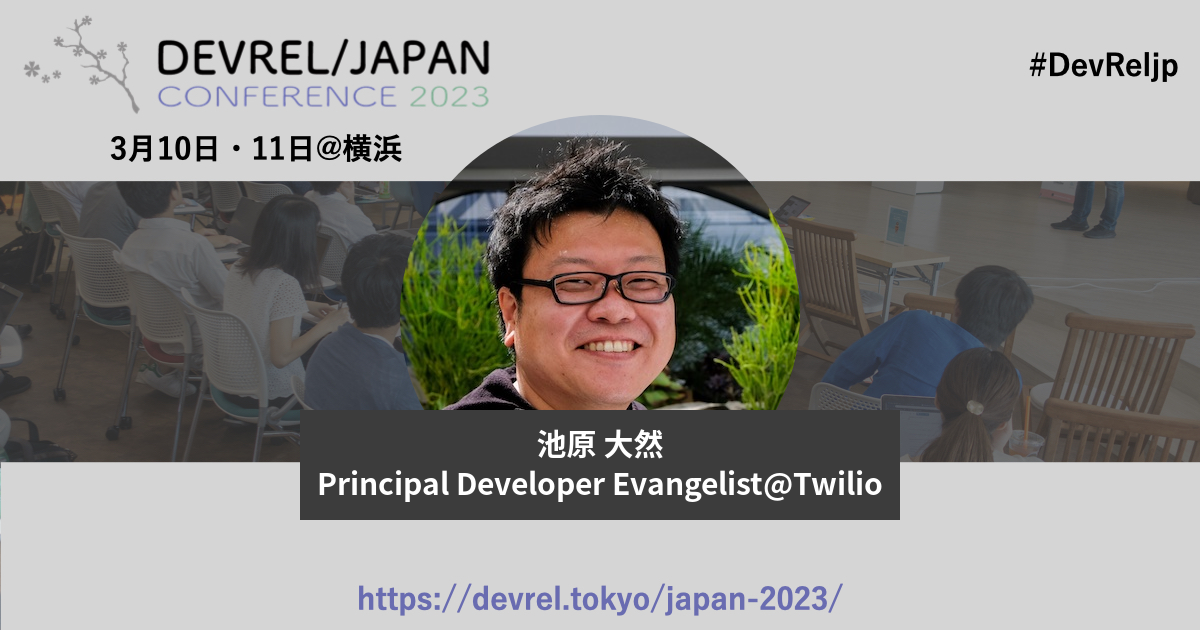
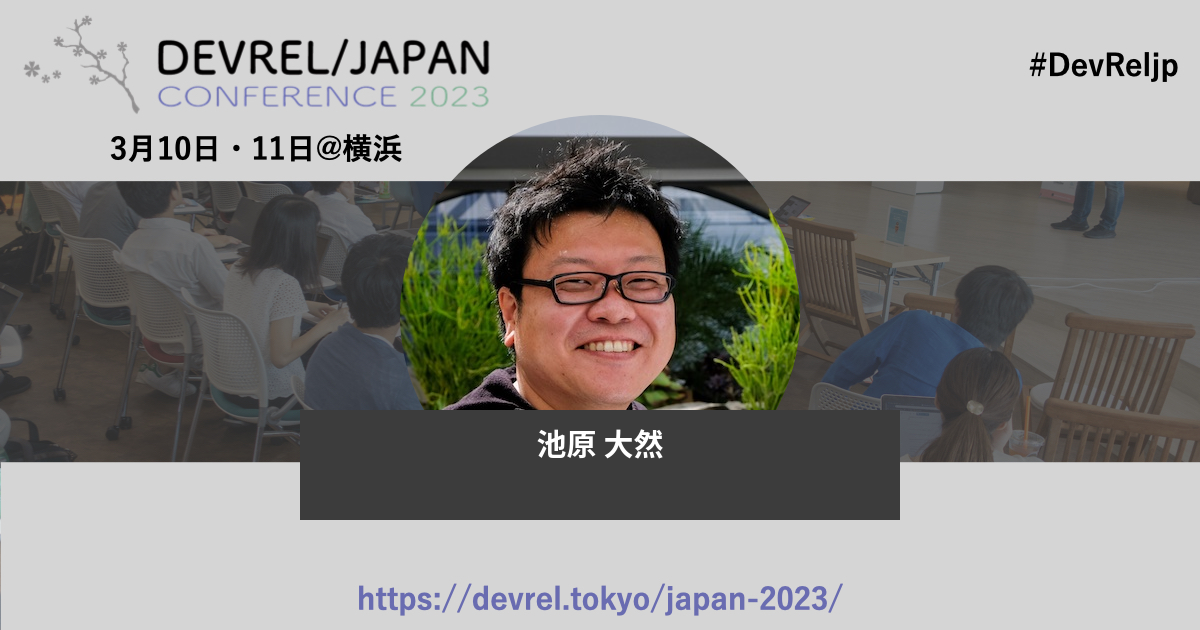
auto update

Changed region(s): [[0.2467, 0.754, 0.74, 0.8143]]

diff --git a/organizers/neri.md b/organizers/neri.md
@@ -1,7 +1,7 @@
 ---
 layout: person
 permalink: /organizers/neri/
-title: 池原 大然@Twilio
+title: 池原 大然@
 ogp: /japan-2023/image/ogp/neri.jpg
 type: organizer
 id: neri
